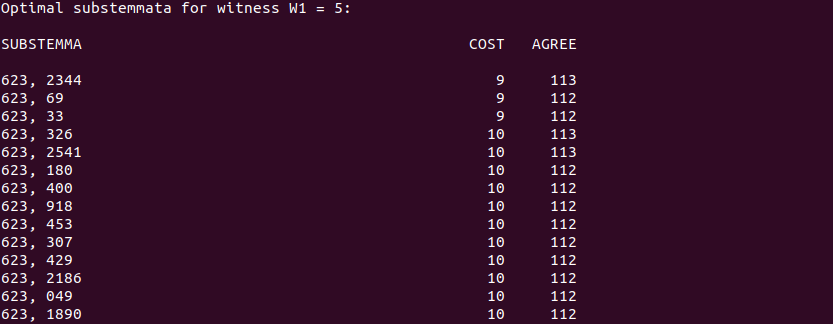
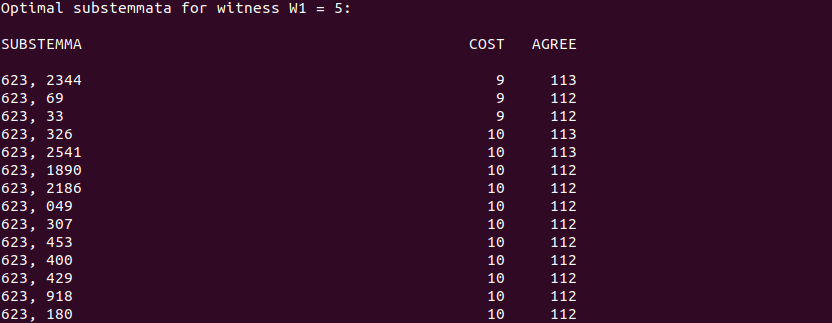
Fixed type of genealogical_comparison::cost from int to float; updated textual_flow to copy readings list from variation unit and use it for retrieving clusters in coherence_in_variant_passages_to_dot; updated images and readme

diff --git a/src/print_textual_flow.cpp b/src/print_textual_flow.cpp
@@ -135,7 +135,7 @@ list<string> get_readings_for_variation_unit(sqlite3 * input_db, const string & 
 	list<string> readings = list<string>();
 	int rc; //to store SQLite macros
 	sqlite3_stmt * select_from_readings_stmt;
-	sqlite3_prepare(input_db, "SELECT * FROM READINGS WHERE READINGS.VARIATION_UNIT=?", -1, & select_from_readings_stmt, 0);
+	sqlite3_prepare(input_db, "SELECT * FROM READINGS WHERE READINGS.VARIATION_UNIT=? ORDER BY ROWID", -1, & select_from_readings_stmt, 0);
 	sqlite3_bind_text(select_from_readings_stmt, 1, vu_id.c_str(), -1, SQLITE_STATIC);
 	rc = sqlite3_step(select_from_readings_stmt);
 	while (rc == SQLITE_ROW) {
@@ -192,7 +192,7 @@ local_stemma get_local_stemma_for_variation_unit(sqlite3 * input_db, const strin
 	//Add the vertices of the local stemma:
 	graph.vertices = list<local_stemma_vertex>();
 	sqlite3_stmt * select_from_readings_stmt;
-	sqlite3_prepare(input_db, "SELECT * FROM READINGS WHERE READINGS.VARIATION_UNIT=?", -1, & select_from_readings_stmt, 0);
+	sqlite3_prepare(input_db, "SELECT * FROM READINGS WHERE READINGS.VARIATION_UNIT=? ORDER BY ROWID", -1, & select_from_readings_stmt, 0);
 	sqlite3_bind_text(select_from_readings_stmt, 1, vu_id.c_str(), -1, SQLITE_STATIC);
 	rc = sqlite3_step(select_from_readings_stmt);
 	while (rc == SQLITE_ROW) {
@@ -205,7 +205,7 @@ local_stemma get_local_stemma_for_variation_unit(sqlite3 * input_db, const strin
 	//Add the edges of the local_stemma:
 	graph.edges = list<local_stemma_edge>();
 	sqlite3_stmt * select_from_reading_relations_stmt;
-	sqlite3_prepare(input_db, "SELECT * FROM READING_RELATIONS WHERE READING_RELATIONS.VARIATION_UNIT=?", -1, & select_from_reading_relations_stmt, 0);
+	sqlite3_prepare(input_db, "SELECT * FROM READING_RELATIONS WHERE READING_RELATIONS.VARIATION_UNIT=? ORDER BY ROWID", -1, & select_from_reading_relations_stmt, 0);
 	sqlite3_bind_text(select_from_reading_relations_stmt, 1, vu_id.c_str(), -1, SQLITE_STATIC);
 	rc = sqlite3_step(select_from_reading_relations_stmt);
 	while (rc == SQLITE_ROW) {

diff --git a/src/textual_flow.cpp b/src/textual_flow.cpp
@@ -36,8 +36,9 @@ textual_flow::textual_flow() {
  * and a list of witnesses whose potential ancestors have been set.
  */
 textual_flow::textual_flow(const variation_unit & vu, const list<witness> & witnesses) {
-	//Copy the label and connectivity from the variation unit:
+	//Copy the label, readings, and connectivity from the variation unit:
 	label = vu.get_label();
+	readings = vu.get_readings();
 	connectivity = vu.get_connectivity();
 	//Get the variation unit's local stemma:
 	local_stemma ls = vu.get_local_stemma();
@@ -430,9 +431,8 @@ void textual_flow::coherence_in_variant_passages_to_dot(ostream & out, bool flow
 		}
 	}
 	//Add a cluster for each reading, including all of the nodes it contains:
-	for (pair<string, list<string>> kv : clusters) {
-		string rdg = kv.first;
-		list<string> cluster = kv.second;
+	for (string rdg : readings) {
+		list<string> cluster = clusters.at(rdg);
 		out << "\tsubgraph cluster_" << rdg << " {\n";
 		out << "\t\tlabeljust=\"c\";\n";
 		out << "\t\tlabel=\"" << rdg << "\";\n";

diff --git a/include/textual_flow.h b/include/textual_flow.h
@@ -40,6 +40,7 @@ class textual_flow {
 private:
 	string label;
 	int connectivity;
+	list<string> readings;
 	textual_flow_graph graph;
 public:
 	textual_flow();

diff --git a/include/witness.h b/include/witness.h
@@ -21,7 +21,7 @@ using namespace std;
 struct genealogical_comparison {
 	Roaring agreements;
 	Roaring explained;
-	int cost;
+	float cost;
 };
 
 class witness {

diff --git a/README.md b/README.md
@@ -10,7 +10,7 @@ Fast, compact, open-source, TEI-compliant C++ implementation of the Coherence-Ba
 
 The Coherence-Based Genealogical Method (CBGM) is a novel approach to textual criticism, popularized by the Institut für Neutestamentliche Textforschung (INTF) for its use in the production of the _Editio Critica Maior_ (_ECM_) of the New Testament. It is a meta-method, combining methodology-dependent philological decisions from the user with efficient computer-based calculations to highlight genealogical relationships between different stages of the text. To establish genealogical relationships in the presence of contamination (understood to be a problem in the textual tradition of the New Testament), the CBGM makes a number of philosophical and methodological innovations, such as the abstracting of texts away from the manuscripts that preserve them (and the resulting rejection of hypothetical ancestors as used in traditional stemmata), the encoding of the textual critic's decisions in local stemmata of variants, and the use of coherence in textual flow to evaluate hypotheses about the priority of variant readings. 
 
-To learn more about the CBGM, see Tommy Wasserman and Peter J. Gurry, _A New Approach to Textual Criticism: An Instroduction to the Coherence-Based Genealogical Method_, RBS 80 (Atlanta: SBL Press, 2017); Peter J. Gurry, _A Critical Examination of the Coherence-Based Genealogical Method in the New Testament_, NTTSD 55 (Leiden: Brill, 2017); and Gerd Mink, "Problems of a Highly Contaminated Tradition: The New Testament: Stemmata of Variants as a Source of Genealogy for Witnesses," in Pieter van Reenen, August den Hollander, and Margot van Mulken, eds., _Studies in Stemmatology II_ (Philadelphia, PA: Benjamins, 2004), 13–85.
+To learn more about the CBGM, see Tommy Wasserman and Peter J. Gurry, _A New Approach to Textual Criticism: An Introduction to the Coherence-Based Genealogical Method_, RBS 80 (Atlanta: SBL Press, 2017); Peter J. Gurry, _A Critical Examination of the Coherence-Based Genealogical Method in the New Testament_, NTTSD 55 (Leiden: Brill, 2017); Andrew Charles Edmondson, "An Analysis of the Coherence-based Genealogical Method Using Phylogenetics" (PhD diss., University of Birmingham, 2019); and Gerd Mink, "Problems of a Highly Contaminated Tradition: The New Testament: Stemmata of Variants as a Source of Genealogy for Witnesses," in Pieter van Reenen, August den Hollander, and Margot van Mulken, eds., _Studies in Stemmatology II_ (Philadelphia, PA: Benjamins, 2004), 13–85.
 
 ### Design Philosophy
 
@@ -144,7 +144,7 @@ So if we wanted to create a new database called cache.db using the 3\_john\_coll
 
 	./populate_db -t 100 -z defective -z orthographic --drop-ambiguous examples/3_john_collation.xml cache.db
 
-Please note that at this time, the current database must be overwritten, or a separate one must be created, in order to incorporate any changes to the processing options.
+Please note that at this time, the current database must be overwritten, or a separate one must be created, in order to incorporate any changes to the processing options or to the local stemmata.
 
 To illustrate the effects of the processing arguments, we present several versions of the local stemma for the variation unit at 3 John 1:4/22–26, along with the commands used to populate the database containing their data. In the local stemmata presented below, dashed arrows represent edges of weight 0.
 
